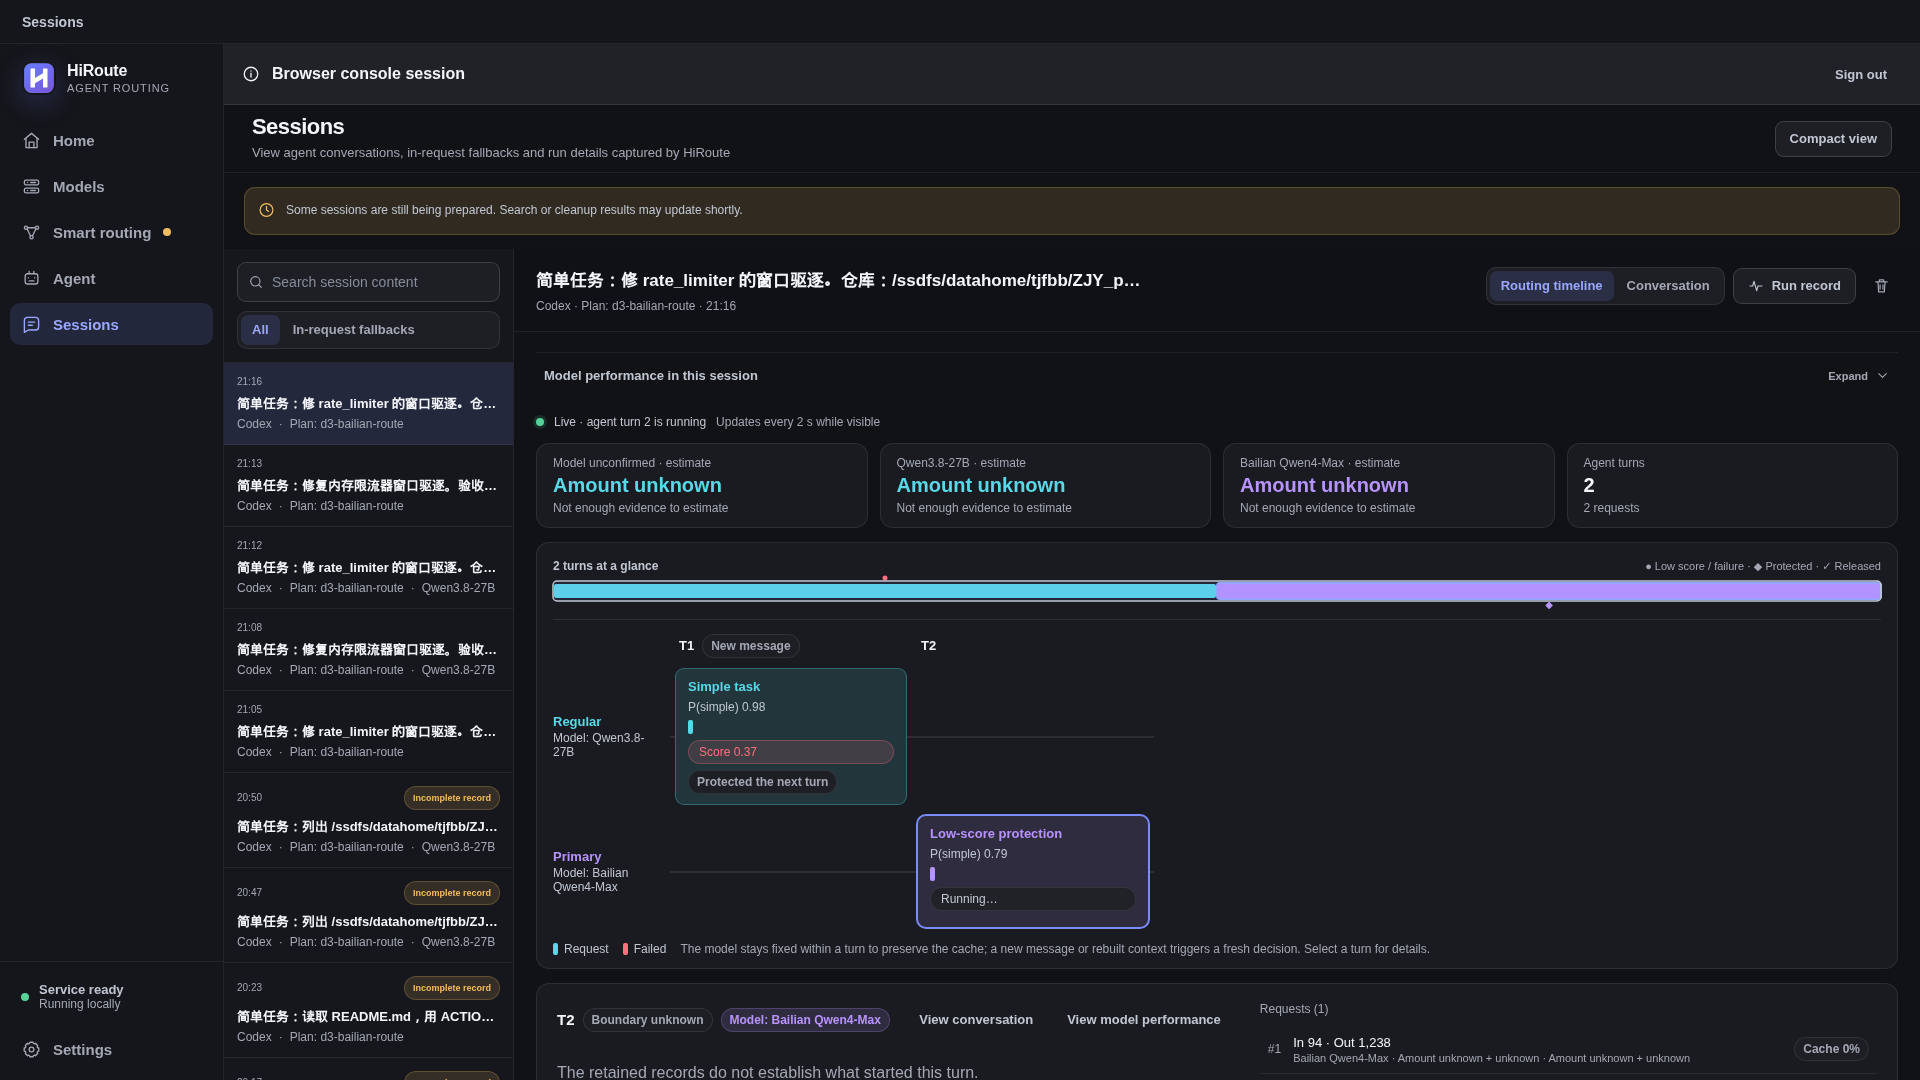
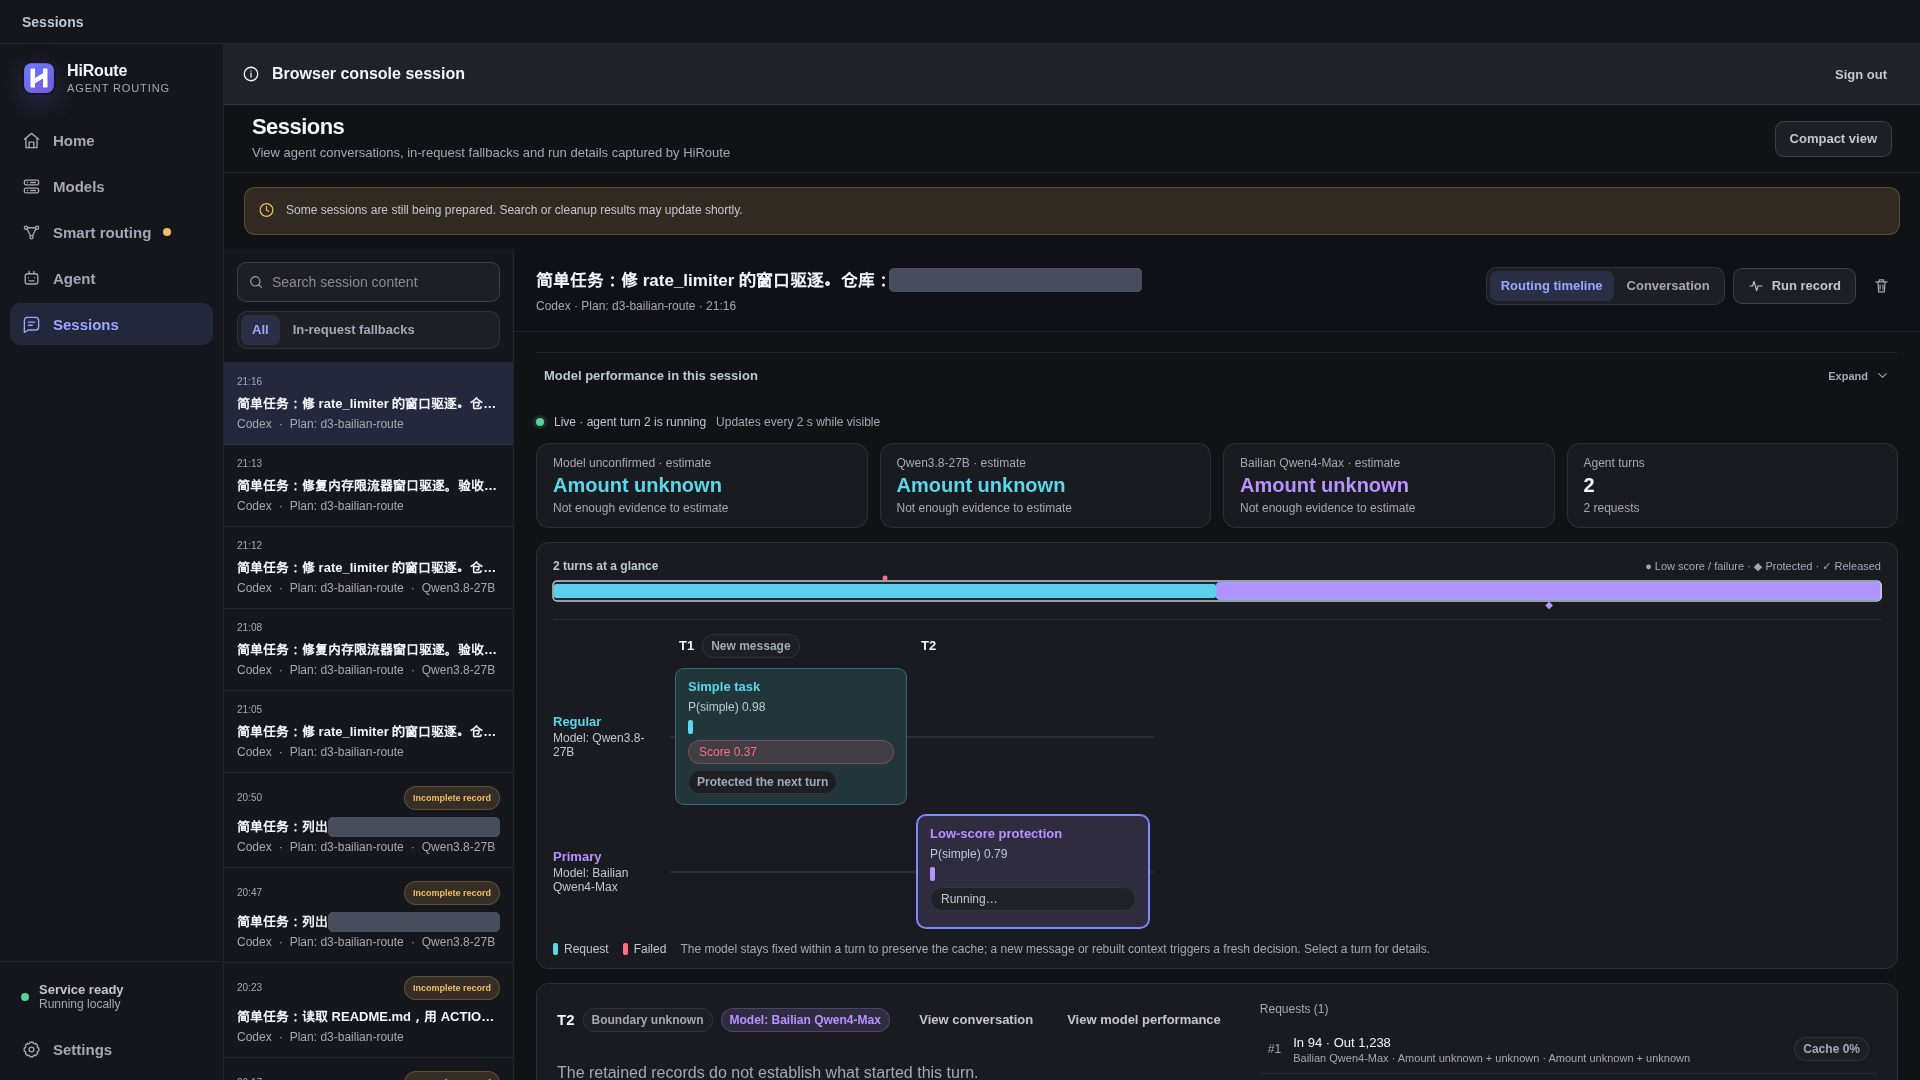
news: mask internal paths and the host address in local-d3 screenshots
Seven console screenshots of the local-d3 article showed an internal
filesystem path in the session title and session list, and the
add-decision-model form also showed a private host address. Cover those
values with opaque bars, keeping the rest of each screenshot unchanged,
and note the masking in the first caption and in the form's caption and
image description.

Changed region(s): [[0.1562, 0.825, 0.2812, 0.8861], [0.1562, 0.7333, 0.2812, 0.7944], [0.4375, 0.2444, 0.5938, 0.275]]

diff --git a/news/2026-11-18-local-d3.en.md b/news/2026-11-18-local-d3.en.md
@@ -8,7 +8,7 @@ The screenshot below comes from one of the sessions, which ran for eleven turns.
 
 ![HiRoute routing timeline for an 11-turn Codex session on the plan d3-bailian-route: turns 1 to 3 are Simple tasks on Regular (Qwen3.8-27B); turns 4, 6, 8 and 10 run on Primary (Bailian Qwen4-Max), with turn 6 a Complex task at P(simple) 0.69; the strip at the top shows seven Regular turns and four Primary turns](assets/local-d3-console-session-long-horizon.png)
 
-*The strip at the top shows the whole session, with one block per turn: teal blocks ran on the local model and purple ones in the cloud. The cards below it show the later turns of the session. `P(simple)` is the probability the decision model assigns to the turn being simple.*
+*The strip at the top shows the whole session, with one block per turn: teal blocks ran on the local model and purple ones in the cloud. The cards below it show the later turns of the session. `P(simple)` is the probability the decision model assigns to the turn being simple. Internal paths are masked in the screenshots in this post.*
 
 The reason I wanted to try this is that most of what a coding agent does is not hard. It spends many of its turns listing files, reading a README, or checking that the file it just wrote is really there, and a 27B model on hardware you own can handle that kind of work without anything leaving your network. Only a few turns are hard in the sense that matters, such as finding the real cause of a bug or writing a fix that holds up, and those are the turns worth sending to a frontier model. So the setup I had in mind is this: **routine work and the routing decision stay local, and a turn goes to the cloud model only when it is hard or when the stage before it fell short.**
 
@@ -189,6 +189,6 @@ One more note for anyone following the d3 model card: its own `vllm serve` verif
 
 The remaining image is the console form used to add the decision model.
 
-![HiRoute console: the Add decision model form with "Other compatible connection", a model ID pointing at the local d3 weights and a complete URL ending in :8900/v1/systemone](assets/local-d3-console-add-filled.png)
+![HiRoute console: the Add decision model form with "Other compatible connection", a model ID ending in d3-weights and a complete URL ending in :8900/v1/systemone, with the path prefix and the host address masked](assets/local-d3-console-add-filled.png)
 
-*Adding d3 as a decision model by choosing "Other compatible connection" and entering the model ID and the complete System One URL.*
+*Adding d3 as a decision model by choosing "Other compatible connection" and entering the model ID and the complete System One URL. The path prefix and the host address are masked.*

diff --git a/news/2026-11-18-local-d3.zh-CN.md b/news/2026-11-18-local-d3.zh-CN.md
@@ -8,7 +8,7 @@
 
 ![HiRoute 路由时间线：计划 d3-bailian-route 下一次 11 轮的 Codex 会话，第 1 到 3 轮是 Simple task，走 Regular（Qwen3.8-27B）；第 4、6、8、10 轮走 Primary（Bailian Qwen4-Max），其中第 6 轮 Complex task，P(simple) 0.69；顶部色带显示 7 轮 Regular、4 轮 Primary](assets/local-d3-console-session-long-horizon.png)
 
-*顶上那条色带就是整个会话，一格一轮，青色的跑在本地模型上，紫色的跑在云端。下面的卡片是会话后半段的几轮。`P(simple)` 是决策模型给出的“这一轮算简单”的概率。*
+*顶上那条色带就是整个会话，一格一轮，青色的跑在本地模型上，紫色的跑在云端。下面的卡片是会话后半段的几轮。`P(simple)` 是决策模型给出的“这一轮算简单”的概率。文中截图里的内部路径都打了码。*
 
 想做这个实验，是因为 Coding Agent 干的活大部分其实不难。很多轮只是在列文件、读 README，或者确认一下刚写的文件在不在，这类事情交给自己机器上的 27B 模型就够了，也没必要出内网。难的只是少数几轮，比如定位 bug 的根因、把修复写对写牢，这几轮才值得交给云端的前沿模型。所以我想试的搭法是：**日常工作和路由决策都留在本地，只有这一轮够难、或者上一阶段没做好的时候，才升级到云端的主力模型。**
 
@@ -189,6 +189,6 @@ hiroute decision connections test --service local-d3-full@5 --output json
 
 最后是控制台里添加决策模型时的配置截图。
 
-![HiRoute 控制台：Add decision model 表单，选择 Other compatible connection，Model ID 指向本地 d3 权重，Complete URL 以 :8900/v1/systemone 结尾](assets/local-d3-console-add-filled.png)
+![HiRoute 控制台：Add decision model 表单，选择 Other compatible connection，Model ID 以 d3-weights 结尾，Complete URL 以 :8900/v1/systemone 结尾，路径前缀和主机地址已打码](assets/local-d3-console-add-filled.png)
 
-*把 d3 添加为决策模型：选择“其他兼容接入”，填写 Model ID 和完整的 System One 地址。*
+*把 d3 添加为决策模型：选择“其他兼容接入”，填写 Model ID 和完整的 System One 地址。路径前缀和主机地址已打码。*
